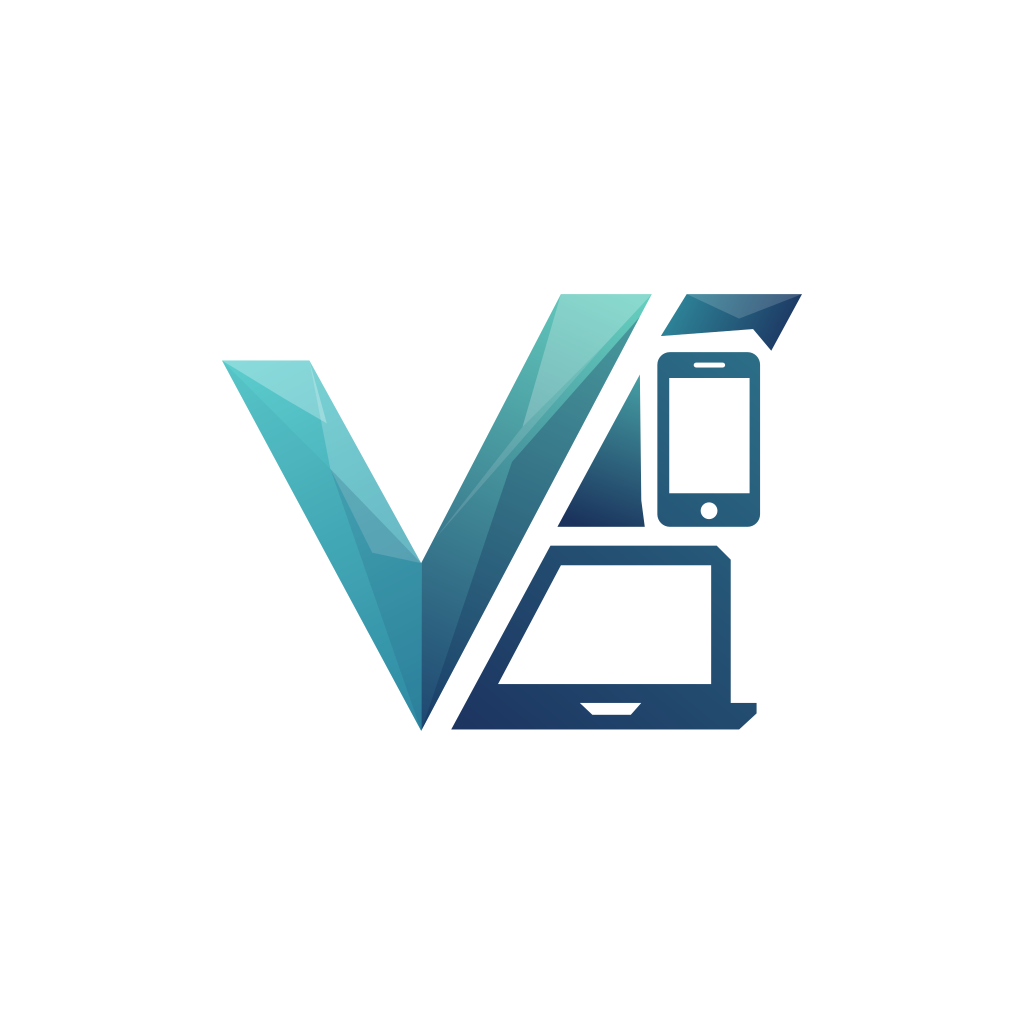
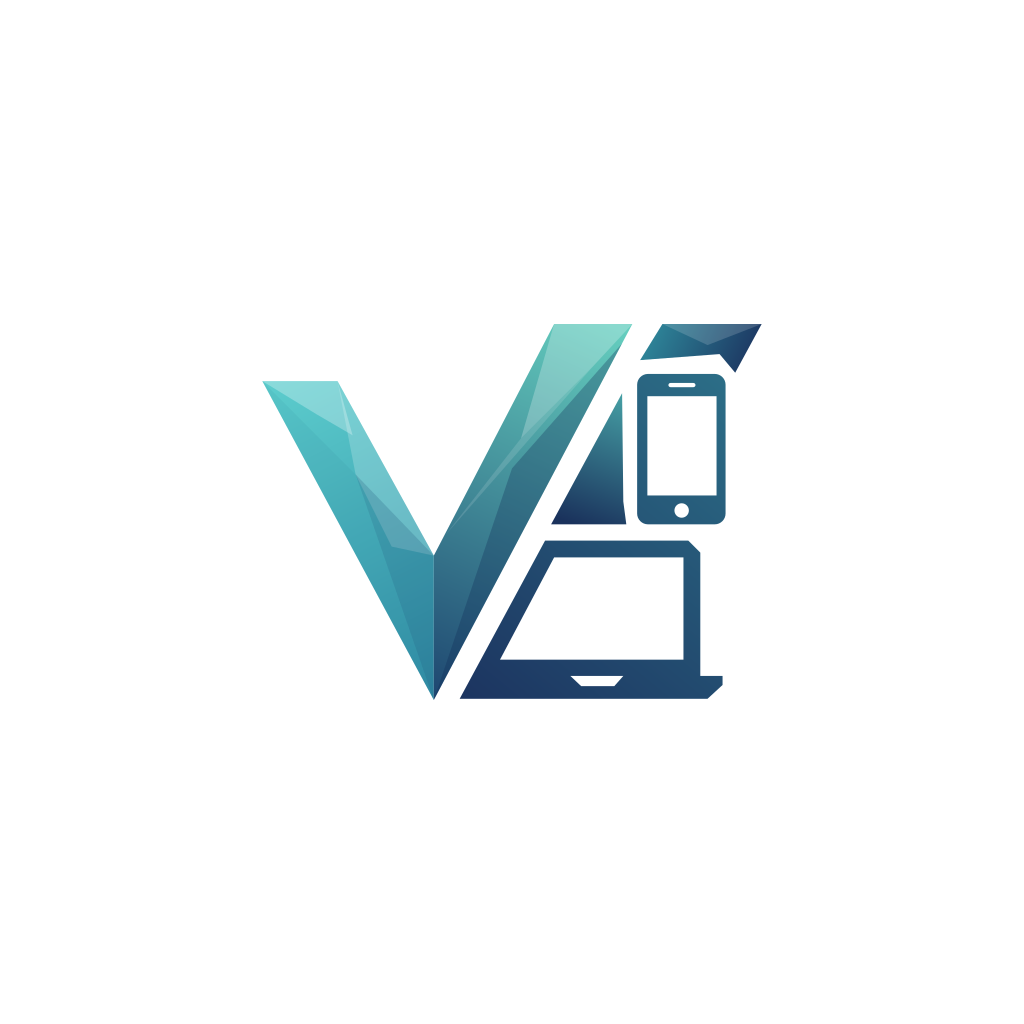
fix(mobile): make Android release builds work and fill form gaps
Release builds:
- Pin pnpm in eas.json, because EAS's pnpm 11 fails on an ignored build
  script that pnpm 10 skips
- Skip release lint and ignore R8 warnings for Stripe's optional push
  provisioning add-on, whose Google dependency isn't public

Android icons:
- Keep the splash wordmark and the adaptive icon inside Android's masks

App behaviour:
- Choose the brand from the list the web form uses, now shared
- Show the device photo in the checkout summary
- Prompt guests to sign in on offer and order links

Changed region(s): [[0.2188, 0.2812, 0.7812, 0.7188]]

diff --git a/frontend/app/listings/create/page.tsx b/frontend/app/listings/create/page.tsx
@@ -28,6 +28,7 @@ import {
 import { buyerFacingPrice, getBuyerProtectionFeePercent } from '@/lib/fees';
 import { formatPrice } from '@/lib/currency';
 import { prepareImageForUpload } from '@/lib/prepare-image';
+import { DEVICE_BRANDS } from '@veribuy/common/devices';
 import { getEvidenceRequirements, validateImeiChecksum } from '@veribuy/common/evidence';
 
 
@@ -126,17 +127,6 @@ const DEVICE_TYPE_LABELS: Record<string, string> = {
   DESKTOP: 'Desktop',
   GAMING_CONSOLE: 'Gaming Console',
   OTHER: 'Other',
-};
-
-const POPULAR_BRANDS: Record<string, string[]> = {
-  SMARTPHONE: ['Apple', 'Samsung', 'Google', 'OnePlus', 'Xiaomi', 'Motorola', 'Other'],
-  TABLET: ['Apple', 'Samsung', 'Microsoft', 'Lenovo', 'Amazon', 'Other'],
-  LAPTOP: ['Apple', 'Dell', 'HP', 'Lenovo', 'Asus', 'Acer', 'Microsoft', 'Other'],
-  SMARTWATCH: ['Apple', 'Samsung', 'Garmin', 'Fitbit', 'Other'],
-  AIRPODS: ['Apple', 'Other'],
-  DESKTOP: ['Apple', 'Dell', 'HP', 'Lenovo', 'Asus', 'Acer', 'Other'],
-  GAMING_CONSOLE: ['Sony', 'Microsoft', 'Nintendo', 'Valve', 'Other'],
-  OTHER: ['Other'],
 };
 
 // Device type values + labels are fetched from the backend so the form always
@@ -915,7 +905,7 @@ export default function CreateListingPage() {
                     ? deviceTypeOptions.map(type => (
                       <option key={type.value} value={type.value}>{type.label}</option>
                     ))
-                    : Object.keys(POPULAR_BRANDS).map(value => (
+                    : Object.keys(DEVICE_BRANDS).map(value => (
                       <option key={value} value={value}>{DEVICE_TYPE_LABELS[value] ?? value}</option>
                     ))}
                 </select>
@@ -933,7 +923,7 @@ export default function CreateListingPage() {
                   className="w-full px-4 py-2 border border-[var(--color-border)] rounded-lg focus:ring-2 focus:ring-[var(--color-green)] focus:border-transparent"
                 >
                   <option value="">Select a brand</option>
-                  {(POPULAR_BRANDS[formData.deviceType] ?? ['Other']).map(brand => (
+                  {(DEVICE_BRANDS[formData.deviceType] ?? ['Other']).map(brand => (
                     <option key={brand} value={brand}>{brand}</option>
                   ))}
                 </select>

diff --git a/mobile/app/(main)/sell.tsx b/mobile/app/(main)/sell.tsx
@@ -1,4 +1,5 @@
 import { Ionicons } from '@expo/vector-icons';
+import { DEVICE_BRANDS } from '@veribuy/common/devices';
 import { getEvidenceRequirements, validateImeiChecksum } from '@veribuy/common/evidence';
 import { router, useFocusEffect } from 'expo-router';
 import { useCallback, useEffect, useRef, useState } from 'react';
@@ -216,7 +217,7 @@ export default function SellScreen() {
   const stepError = (current: number): string | null => {
     if (current === 1) {
       if (!fields.deviceType) return 'Choose the type of device.';
-      if (!fields.brand.trim() || !fields.model.trim()) return 'Enter the brand and model.';
+      if (!fields.brand.trim() || !fields.model.trim()) return 'Choose the brand and enter the model.';
       if (!fields.conditionGrade) return 'Choose the condition.';
     }
     if (current === 2) {
@@ -435,8 +436,25 @@ export default function SellScreen() {
           {step === 1 ? (
             <>
               <Label>Device type</Label>
-              <ChipRow options={DEVICE_TYPES} value={fields.deviceType} onChange={(v) => update('deviceType', v)} />
-              <Input label="Brand" placeholder="e.g. Apple" value={fields.brand} onChangeText={(v) => update('brand', v)} />
+              <ChipRow
+                options={DEVICE_TYPES}
+                value={fields.deviceType}
+                onChange={(v) => {
+                  update('deviceType', v);
+                  // Each type has its own brands, the same as the web form.
+                  update('brand', '');
+                }}
+              />
+              {fields.deviceType ? (
+                <>
+                  <Label>Brand</Label>
+                  <ChipRow
+                    options={DEVICE_BRANDS[fields.deviceType] ?? ['Other']}
+                    value={fields.brand}
+                    onChange={(v) => update('brand', v)}
+                  />
+                </>
+              ) : null}
               <Input label="Model" placeholder="e.g. iPhone 14 Pro" value={fields.model} onChangeText={(v) => update('model', v)} />
               <Label>Condition</Label>
               <ChipRow options={CONDITION_GRADES} value={fields.conditionGrade} onChange={(v) => update('conditionGrade', v)} />

diff --git a/mobile/app/offers.tsx b/mobile/app/offers.tsx
@@ -2,7 +2,9 @@ import { router, useFocusEffect } from 'expo-router';
 import { useCallback, useState } from 'react';
 import { Alert, FlatList, Pressable, RefreshControl, Text, View } from 'react-native';
 
+import { GuestGate } from '@/src/components/GuestGate';
 import { Button, EmptyState, LoadingState, Screen } from '@/src/components/ui';
+import { useAuth } from '@/src/context/AuthContext';
 import { formatPrice } from '@/src/lib/currency';
 import { buyerFacingPrice } from '@/src/lib/fees';
 import { Offer, offersService } from '@/src/services';
@@ -24,6 +26,7 @@ function payBy(expiresAt: string): string {
 
 /** Offers on the seller's listings and the ones they have made, same as /offers on the web. */
 export default function OffersScreen() {
+  const { isAuthenticated } = useAuth();
   const [received, setReceived] = useState<Offer[]>([]);
   const [sent, setSent] = useState<Offer[]>([]);
   const [tab, setTab] = useState<Tab | null>(null);
@@ -33,6 +36,7 @@ export default function OffersScreen() {
   const [error, setError] = useState('');
 
   const load = useCallback(async () => {
+    if (!isAuthenticated) return;
     try {
       const [asSeller, asBuyer] = await Promise.all([offersService.mine('seller'), offersService.mine('buyer')]);
       setReceived(asSeller);
@@ -50,7 +54,7 @@ export default function OffersScreen() {
       setLoading(false);
       setRefreshing(false);
     }
-  }, []);
+  }, [isAuthenticated]);
 
   useFocusEffect(
     useCallback(() => {
@@ -95,6 +99,10 @@ export default function OffersScreen() {
       { text: 'Withdraw', style: 'destructive', onPress: () => respond(offer, 'WITHDRAW') },
     ]);
   };
+
+  if (!isAuthenticated) {
+    return <GuestGate title="Sign in to see your offers" subtitle="Offers you've made and received will appear here." />;
+  }
 
   if (loading) return <LoadingState />;
 

diff --git a/mobile/app/order/[id].tsx b/mobile/app/order/[id].tsx
@@ -18,6 +18,7 @@ import {
   View,
 } from 'react-native';
 
+import { GuestGate } from '@/src/components/GuestGate';
 import { Button, Input, Screen, KeyboardArea } from '@/src/components/ui';
 import { useAuth } from '@/src/context/AuthContext';
 import { ApiError } from '@/src/types/api';
@@ -40,7 +41,7 @@ interface DropoffLocation {
 
 export default function OrderDetailScreen() {
   const { id } = useLocalSearchParams<{ id: string }>();
-  const { user } = useAuth();
+  const { user, isAuthenticated } = useAuth();
   const [downloadingLabel, setDownloadingLabel] = useState(false);
   const [showProblemForm, setShowProblemForm] = useState(false);
   const [problemReason, setProblemReason] = useState('');
@@ -62,6 +63,7 @@ export default function OrderDetailScreen() {
   const [searchingDropoff, setSearchingDropoff] = useState(false);
 
   const load = useCallback(async () => {
+    if (!isAuthenticated) return;
     try {
       const o = await ordersService.get(id);
       setOrder(o);
@@ -229,6 +231,10 @@ export default function OrderDetailScreen() {
       setSearchingDropoff(false);
     }
   };
+
+  if (!isAuthenticated) {
+    return <GuestGate title="Sign in to see this order" subtitle="Your orders and their progress are kept in your account." />;
+  }
 
   if (loading) {
     return (

diff --git a/mobile/app/checkout.tsx b/mobile/app/checkout.tsx
@@ -26,7 +26,7 @@ import {
   ShippingQuote,
 } from '@/src/lib/shipping';
 import { initPaymentSheet, presentPaymentSheet } from '@/src/lib/stripe';
-import { listingsService, ordersService, usersService } from '@/src/services';
+import { evidenceService, listingsService, ordersService, usersService } from '@/src/services';
 import { ApiError } from '@/src/types/api';
 import { Listing, Order } from '@/src/types/entities';
 
@@ -167,6 +167,14 @@ export default function CheckoutScreen() {
 
       const l = await listingsService.get(params.listingId);
       setListing(l);
+      // Listing details don't include the photo, so fetch it for the summary (best effort).
+      evidenceService
+        .forListing(l.id)
+        .then((items) => {
+          const photo = items.find((item) => item.url)?.url;
+          if (photo) setListing((current) => (current ? { ...current, imageUrl: photo } : current));
+        })
+        .catch(() => {});
 
       // Create (or resume) the pending order now so the price shown is the
       // server's price and the item is held while the buyer checks out.

diff --git a/mobile/plugins/with-no-release-lint.js b/mobile/plugins/with-no-release-lint.js
@@ -1,0 +1,18 @@
+const { withAppBuildGradle } = require('expo/config-plugins');
+
+/**
+ * Release builds run lint across every module, and Stripe's optional push
+ * provisioning dependency needs a Google library that isn't publicly available,
+ * so lint can't start and the build fails. We don't use push provisioning.
+ */
+module.exports = function withNoReleaseLint(config) {
+  return withAppBuildGradle(config, (gradle) => {
+    if (!gradle.modResults.contents.includes('checkReleaseBuilds')) {
+      gradle.modResults.contents = gradle.modResults.contents.replace(
+        /^android \{$/m,
+        'android {\n    lint {\n        checkReleaseBuilds false\n    }',
+      );
+    }
+    return gradle;
+  });
+};

diff --git a/packages/common/src/devices/index.ts b/packages/common/src/devices/index.ts
@@ -1,0 +1,11 @@
+/** Brands offered for each device type when listing, shared by the web and mobile forms. */
+export const DEVICE_BRANDS: Record<string, string[]> = {
+  SMARTPHONE: ['Apple', 'Samsung', 'Google', 'OnePlus', 'Xiaomi', 'Motorola', 'Other'],
+  TABLET: ['Apple', 'Samsung', 'Microsoft', 'Lenovo', 'Amazon', 'Other'],
+  LAPTOP: ['Apple', 'Dell', 'HP', 'Lenovo', 'Asus', 'Acer', 'Microsoft', 'Other'],
+  SMARTWATCH: ['Apple', 'Samsung', 'Garmin', 'Fitbit', 'Other'],
+  AIRPODS: ['Apple', 'Other'],
+  DESKTOP: ['Apple', 'Dell', 'HP', 'Lenovo', 'Asus', 'Acer', 'Other'],
+  GAMING_CONSOLE: ['Sony', 'Microsoft', 'Nintendo', 'Valve', 'Other'],
+  OTHER: ['Other'],
+};
